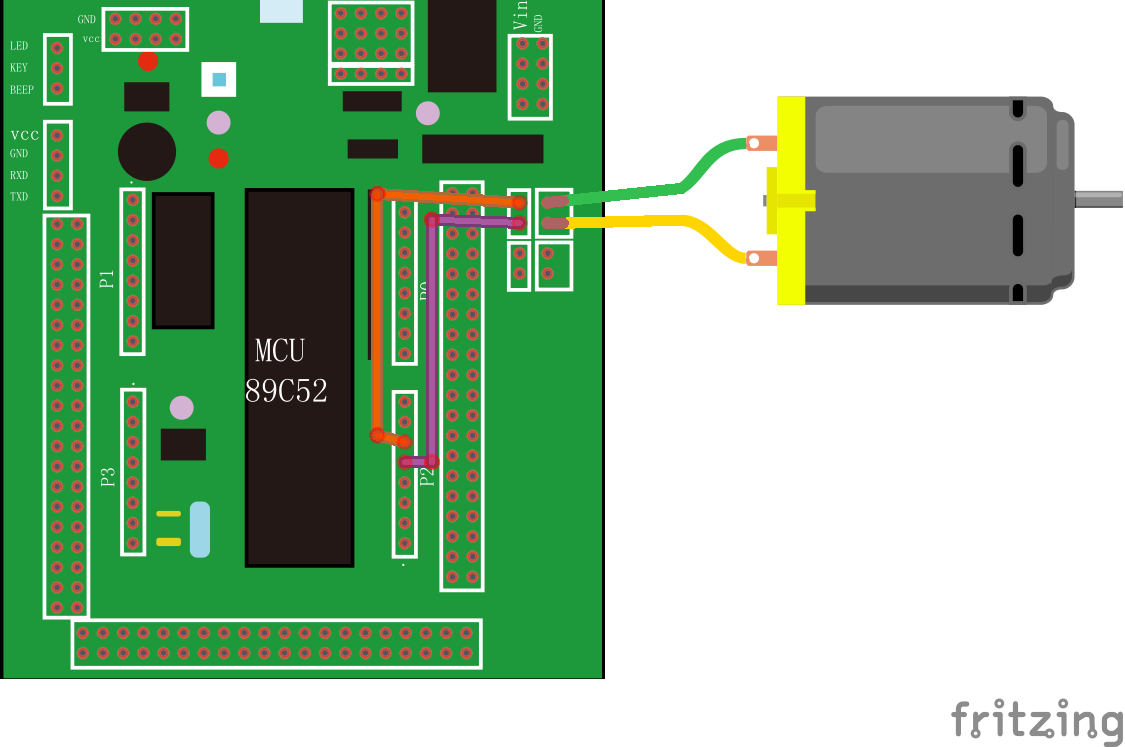
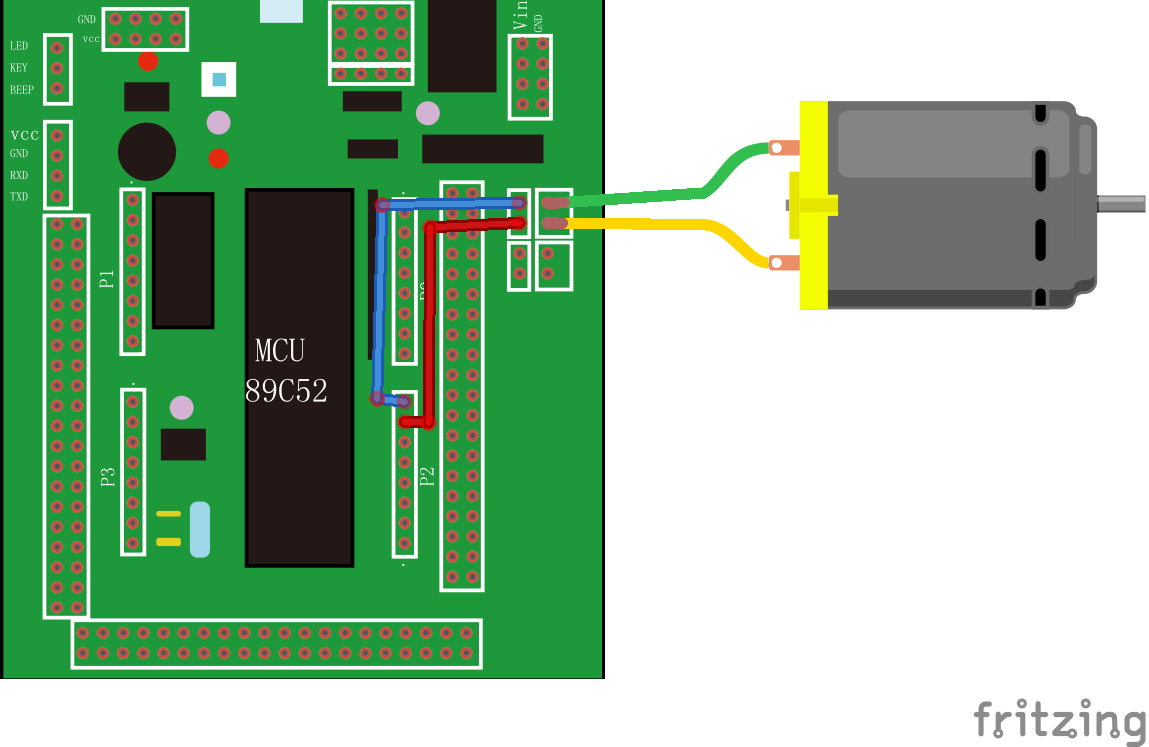
modify 09.DCMoto

diff --git a/README.md b/README.md
@@ -17,7 +17,7 @@
 08|Servo_Control|舵机控制。通过1个IO口控制舵机进行连续往复运动，并在经过`1000us`、`1500us`、`2000us`位置停留片刻。|P2.7
 09|DCMoto_Control|直流电机控制。先正转从小到大，再反转从小到大|P2.6,P2.7
 10|StepperMotor_Control|步进电机控制。先正转，然后反转，最后停止|P2.4,P2.5,P2.6,P2.7
-11|Lcd1602|控制Lcd1602，第一行显示固定字符串:"XAUT-GCXLZX 1206"，第二行显示0~200依次累加的数据。|P0.5,P0.6,P0.7,P2
+11|Lcd1602|控制Lcd1602，第一行显示固定字符串:"XAUT-GCXLZX 1602"，第二行显示0~200依次累加的数据。|P0.5,P0.6,P0.7,P2
 
 ## Change Log
 ### v1.0.8 2018/06/03

diff --git a/11.Lcd1602/README.md b/11.Lcd1602/README.md
@@ -1,5 +1,5 @@
 # Lcd1602
-简介：控制Lcd1602，第一行显示固定字符串:"XAUT-GCXLZX 1206"，第二行显示0~200依次累加的数据。
+简介：控制Lcd1602，第一行显示固定字符串:"XAUT-GCXLZX 1602"，第二行显示0~200依次累加的数据。
 
 注：V0和GND间的电压约`0.4V`~`1.2V`之间。
 >使用端口：`P0.5`、`P0.6`、`P0.7`、`P2.0~P2.7`。  

diff --git a/09.DCMoto_Control/README.md b/09.DCMoto_Control/README.md
@@ -1,6 +1,6 @@
 # DCMoto_Control
 简介：直流电机控制。先正转从小到大，再反转从小到大。  
-使用端口：`P2.4`,`P2.5`  
+使用端口：`P2.6`,`P2.7`  
 ![wiring](51demo_9.png)
 
 [![下载](../download_logo.png)](https://github.com/daishitong/51demo/releases/download/download/09_DCMoto_Control.zip)  
